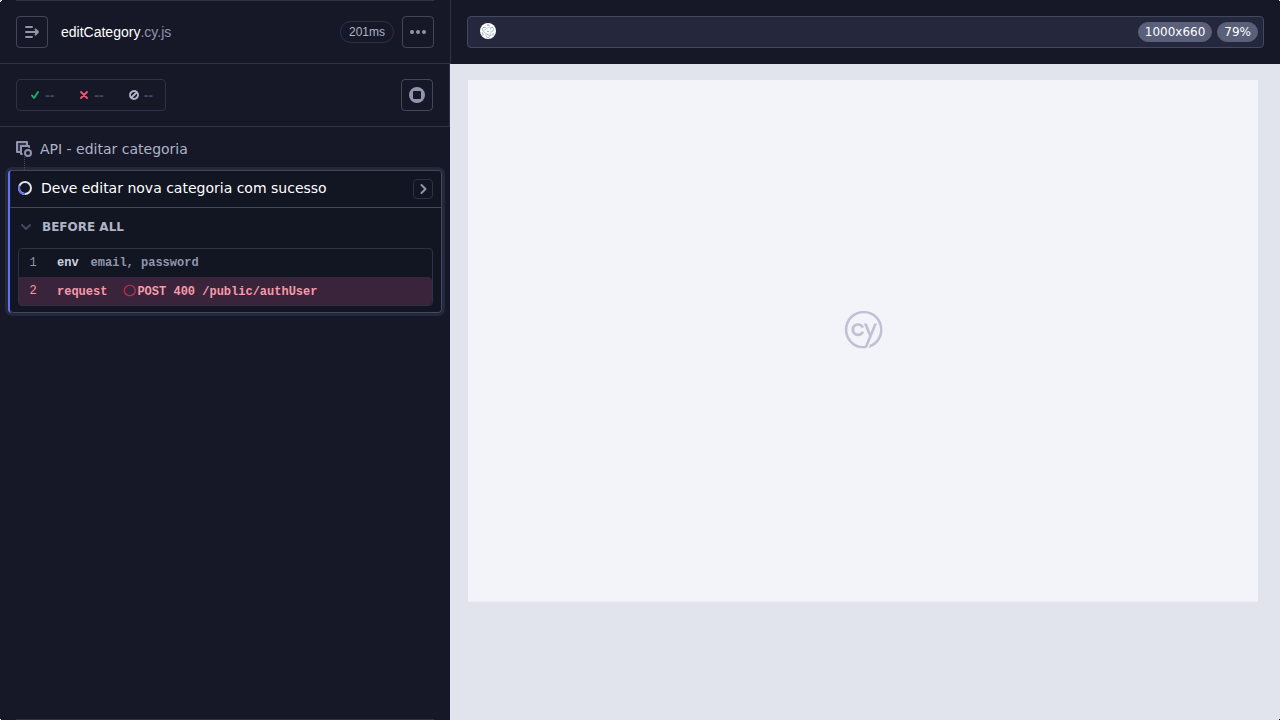
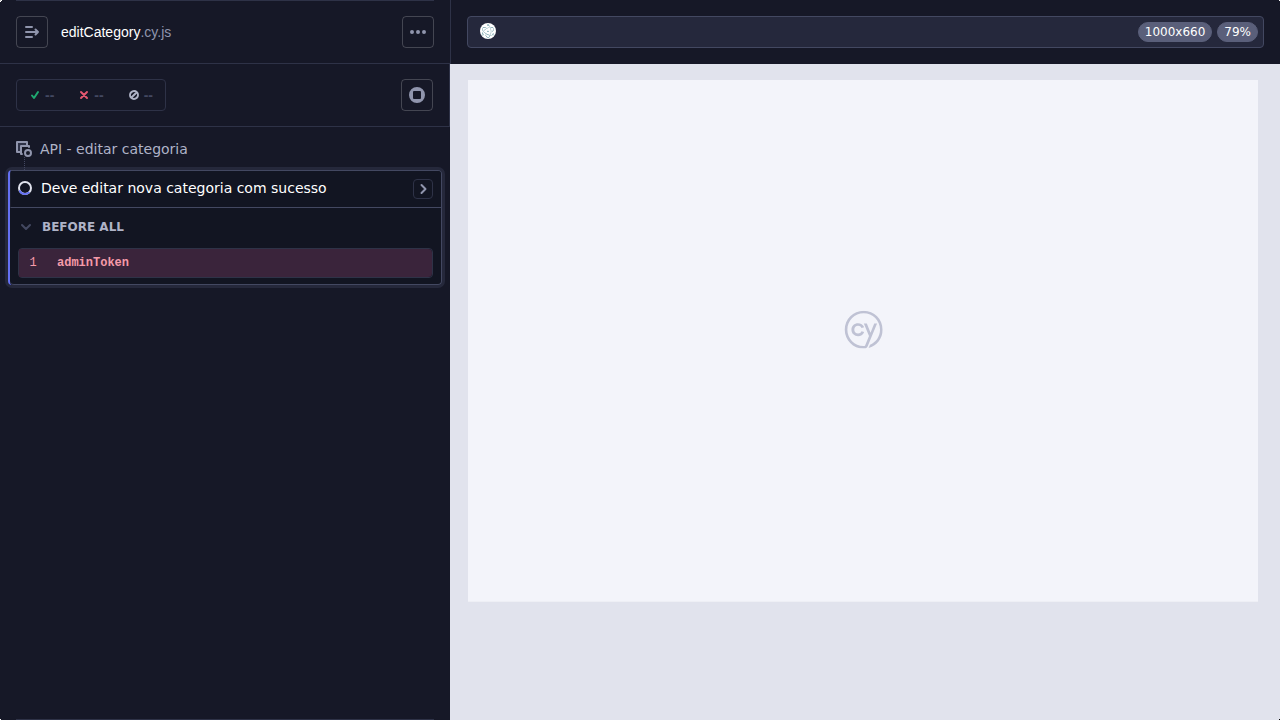
deploy: e00e8469c1419a7802c8dfb787c1d7cf88b333e5

Changed region(s): [[0.0, 0.3361, 0.3438, 0.4278], [0.2812, 0.0306, 0.3125, 0.0611]]

diff --git a/support/commands.js b/support/commands.js
@@ -25,14 +25,20 @@
 // Cypress.Commands.overwrite('visit', (originalFn, url, options) => { ... })
 
 Cypress.Commands.add('adminToken', () => {
-    return cy.env(['email', 'password']).then(({ email, password }) => {
-        return cy.request({
-            method: 'POST',
-            url: 'public/authUser',
-            body: { email, password }
-        }).then((response) => {
-            return response.body.data.token
-        })
+    const email = Cypress.env('email')
+    const password = Cypress.env('password')
+
+    if (!email || !password) {
+        throw new Error('EMAIL ou PASSWORD não definidos no ambiente')
+    }
+
+    return cy.request({
+        method: 'POST',
+        url: 'public/authUser',
+        body: { email, password }
+    }).then((response) => {
+        expect(response.status).to.eq(200)
+        return response.body.data.token
     })
 })
 
@@ -40,76 +46,64 @@ Cypress.Commands.add('addCategory', (token, body) => {
     return cy.request({
         method: 'POST',
         url: 'api/addCategory',
-        headers: {
-            authorization: token,
-        },
+        headers: { authorization: token },
         body
     }).then((response) => {
-        expect(response.status).to.eq(200);
+        expect(response.status).to.eq(200)
         return response
-    });
+    })
 })
 
 Cypress.Commands.add('editCategory', (token, id, body) => {
     return cy.request({
         method: 'PUT',
         url: `api/editCategory/${id}`,
-        headers: {
-            authorization: token,
-        },
+        headers: { authorization: token },
         body
     }).then((response) => {
-        expect(response.status).to.eq(200);
-    });
+        expect(response.status).to.eq(200)
+    })
 })
 
 Cypress.Commands.add('deleteCategory', (token, id) => {
     return cy.request({
         method: 'DELETE',
         url: `api/deleteCategory/${id}`,
-        headers: {
-            authorization: token,
-        }
+        headers: { authorization: token }
     }).then((response) => {
-        expect(response.status).to.eq(200);
-    });
+        expect(response.status).to.eq(200)
+    })
 })
 
 Cypress.Commands.add('addProduct', (token, body) => {
     return cy.request({
         method: 'POST',
         url: 'api/addProduct',
-        headers: {
-            authorization: token,
-        },
+        headers: { authorization: token },
         body
     }).then((response) => {
-        expect(response.status).to.eq(200);
+        expect(response.status).to.eq(200)
         return response
-    });
+    })
 })
 
 Cypress.Commands.add('editProduct', (token, id, body) => {
     return cy.request({
         method: 'PUT',
         url: `api/editProduct/${id}`,
-        headers: {
-            authorization: token,
-        },
+        headers: { authorization: token },
         body
     }).then((response) => {
-        expect(response.status).to.eq(200);
-    });
+        expect(response.status).to.eq(200)
+    })
 })
 
 Cypress.Commands.add('deleteProduct', (token, id) => {
     return cy.request({
         method: 'DELETE',
         url: `api/deleteProduct/${id}`,
-        headers: {
-            authorization: token,
-        }
+        headers: { authorization: token }
     }).then((response) => {
-        expect(response.status).to.eq(200);
-    });
+        expect(response.status).to.eq(200)
+    })
 })
